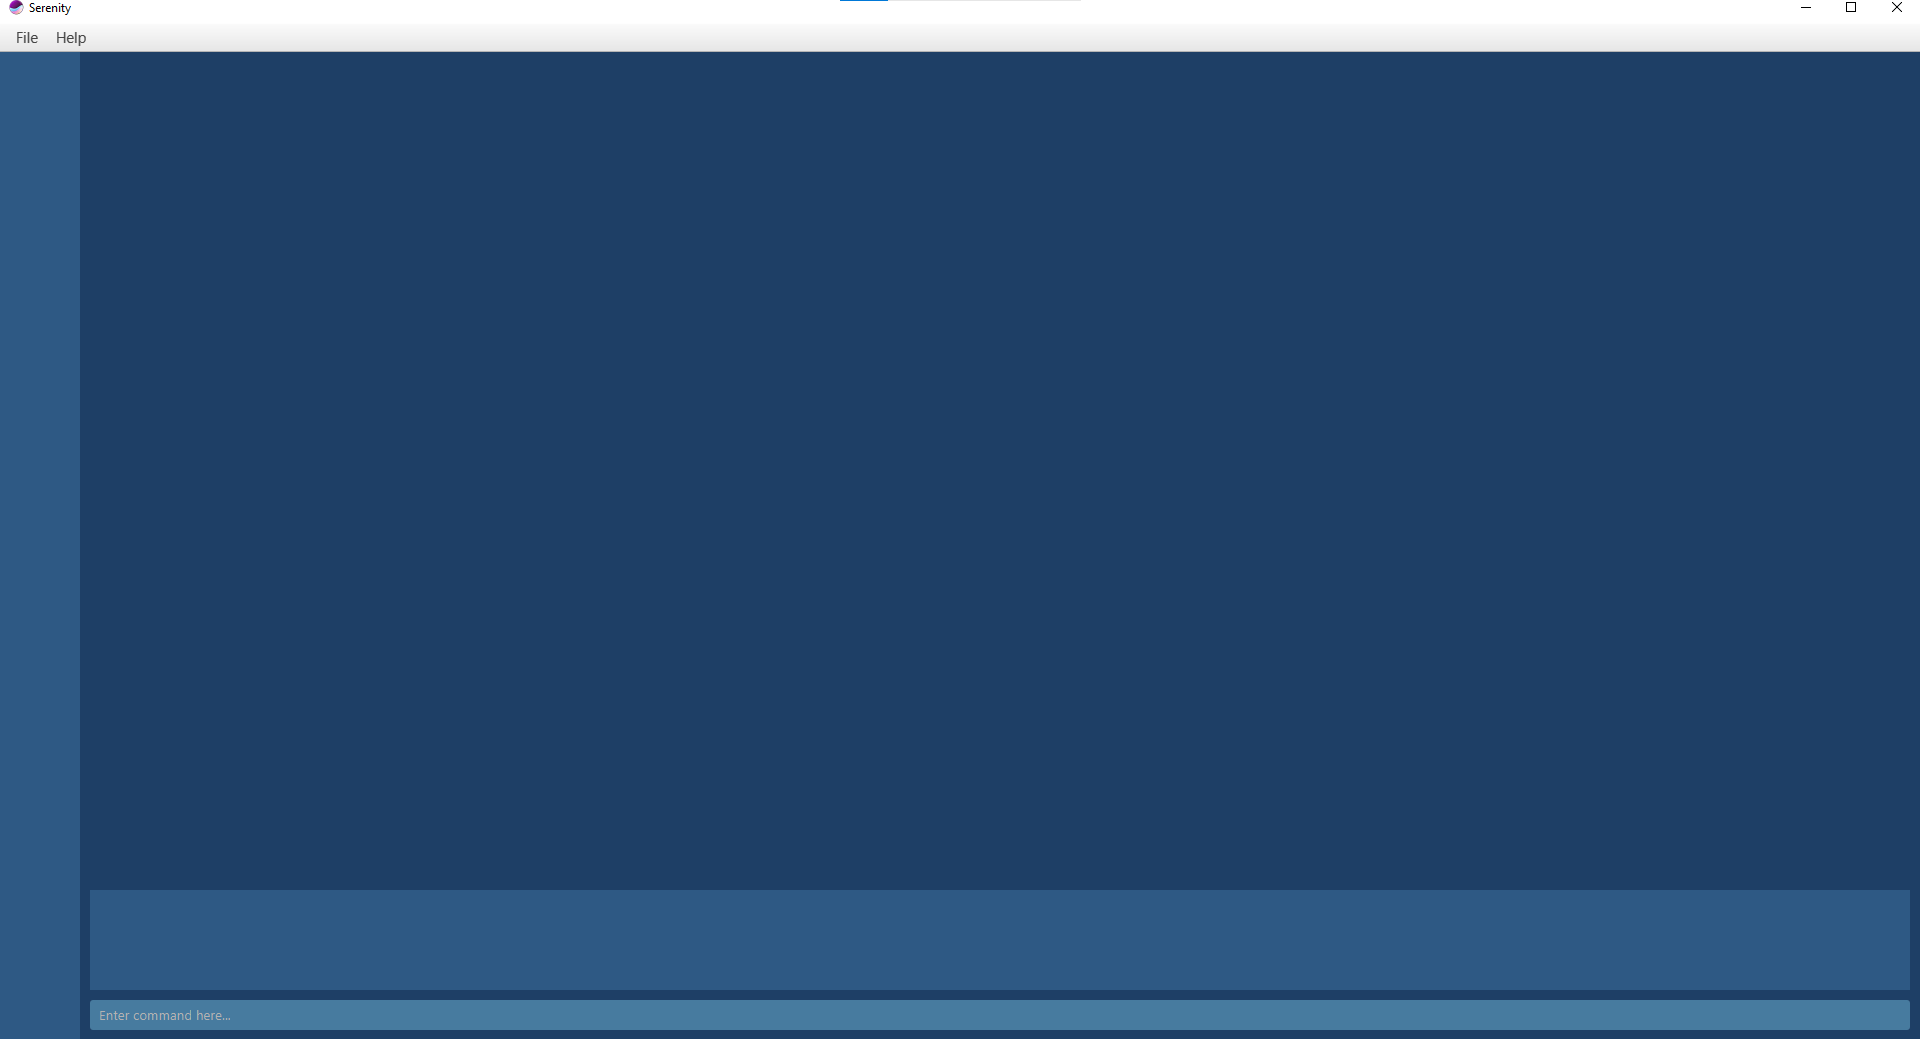
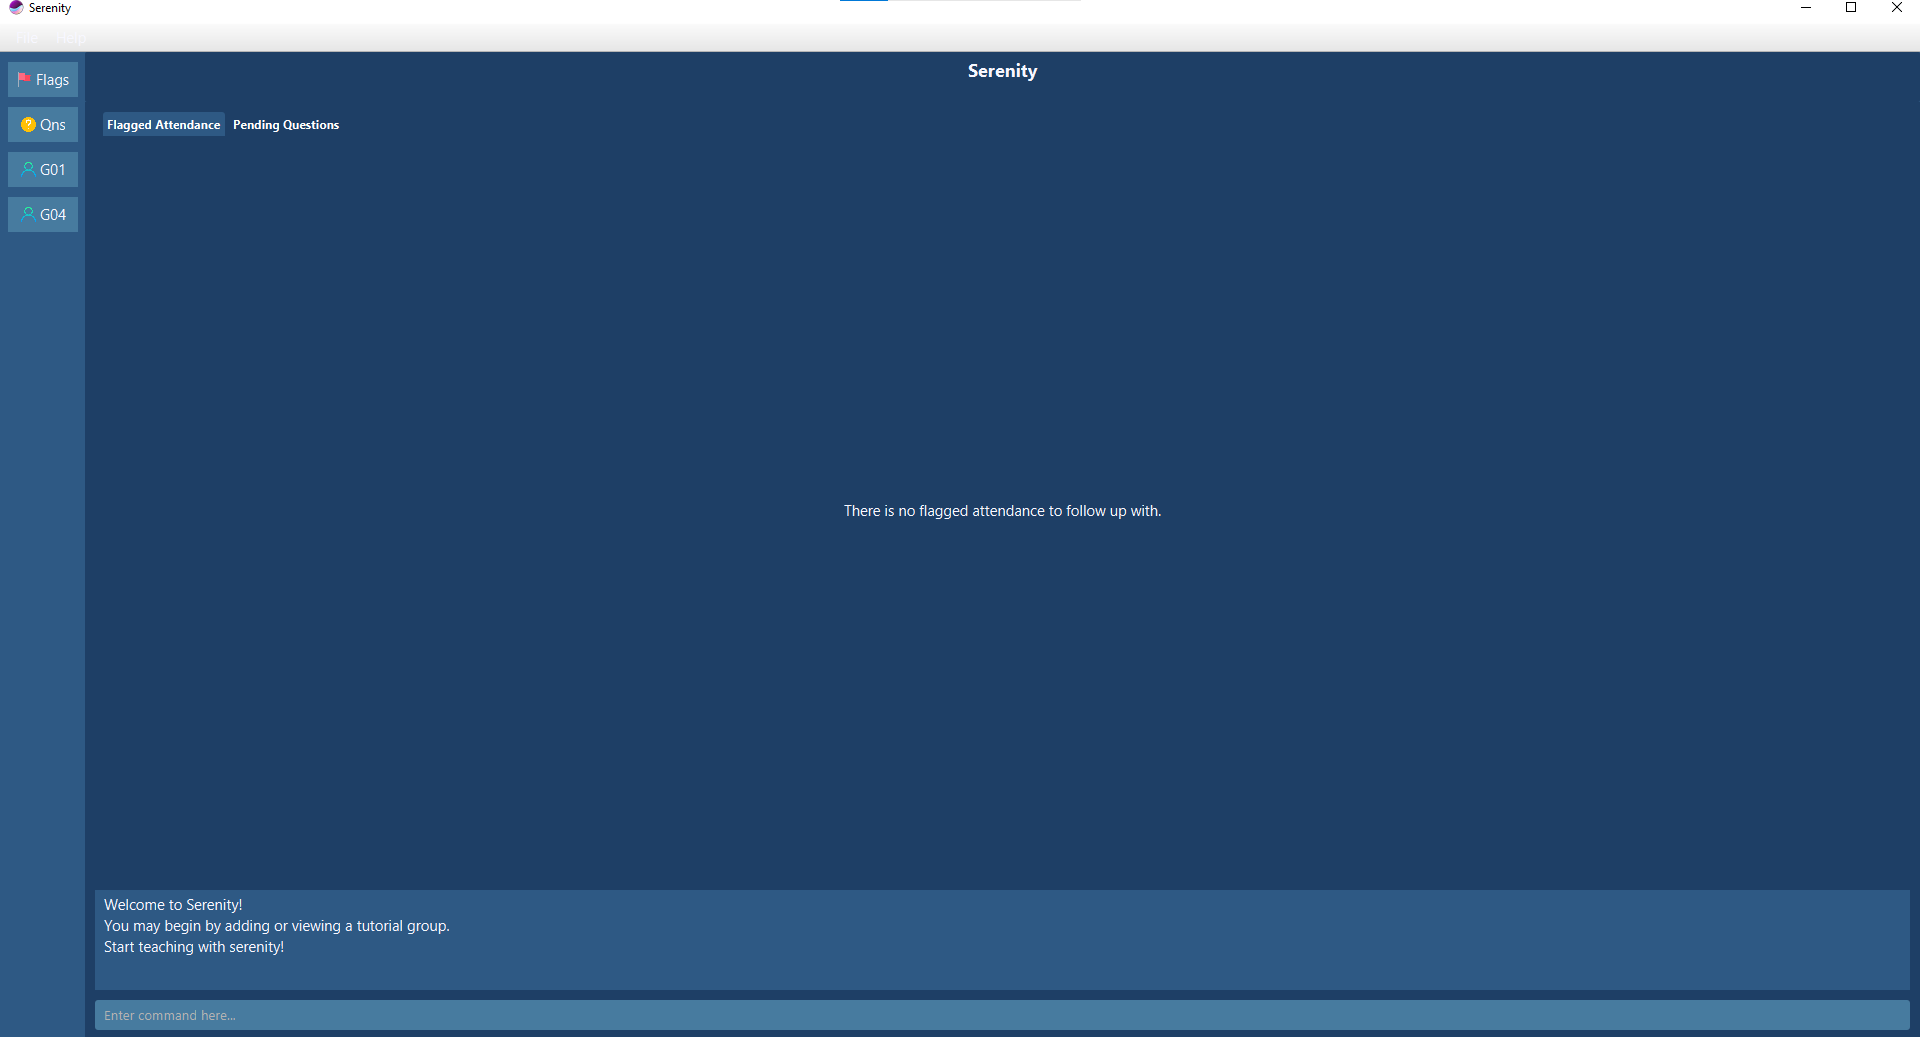
Add ui pics

Changed region(s): [[0.0312, 0.8332, 1.0, 1.0], [0.0, 0.0309, 0.1562, 0.2469], [0.5, 0.0617, 0.5312, 0.0926]]

diff --git a/docs/UserGuide.md b/docs/UserGuide.md
@@ -75,7 +75,68 @@ It is annotated with the name of the _GUI_ components.
 
 ![Ui](images/Ui_annotated.png)
 
-#### 3.2.2. General symbols and syntax
+#### 3.2.2. Layout of the _GUI_
+
+**Serenity** is divided into four main tabs:
+
+* Flagged attendance tab
+* Questions tab
+* Group tab
+* Lesson tab
+
+##### **Flagged attendance tab** 
+
+This is the main tab of the application, and is the default page when the app is started. It contains 
+the names of students whose attendance have been flagged using the `flagatt` command. Flagging a student's
+attendance serves as a reminder on the first page of the app for you to check on the student and perform
+any follow-up actions, if necessary. 
+
+<p align="center"><img src="images/flaggedatt.png" alt="Picture of flag attendance GUI"></p>
+
+<p align="center"><i>Figure 3.2.2.1 User interface showing the layout of the flagged attendance tab</i></p>
+
+> :bulb: Tip: Class has started! `Aaron Tan` is not in the zoom class yet. Flag his attendance and 
+>proceed with teaching. With the flag attendance tab, you will be reminded to check again after class.
+
+##### **Questions tab**
+
+This tab shows the questions asked across all your tutorial groups, providing a convenient place for you
+to keep track of all the questions asked by students across your tutorial groups and lessons.
+
+<p align="center"><img src="images/questionsGUI.png" alt="Picture of questions GUI"></p>
+
+<p align="center"><i>Figure 3.2.2.2 User interface showing the layout of the questions tab</i></p>
+
+##### **Group tab**
+
+This tab shows the information related to a tutorial group that you are teaching. 
+There are four sub-tabs at the top which allows you to view the number of lessons scheduled
+for this group, the list of students in the group, 
+their attendance records and participation grades respectively. Toggle between them with the 
+horizontal row of tabs at the top.
+
+<p align="center"><img src="images/viewgrpGUI.png" alt="Picture of group GUI"></p>
+
+<p align="center"><i>Figure 3.2.2.3 User interface showing the layout of the group tab</i></p>
+
+##### **Lesson tab**
+
+This tab shows the records for a specific lesson. 
+
+In this tab, you are able to:
+* Assign and change the attendance and participation grades
+* Flag a student's attendance
+* Add a question that is asked during this lesson
+* View the attendance and participation grades for this lesson
+* View the questions asked during this tutorial lesson
+
+<p align="center"><img src="images/viewlsnGUI.png" alt="Picture of lesson GUI"></p>
+
+<p align="center"><i>Figure 3.2.2.3 User interface showing the layout of the lesson tab</i></p>
+
+> :memo: This tab is accessible through the `viewlsn` command
+
+#### 3.2.3. General symbols and syntax
 
 The table below explains the general symbols and syntax used throughout the document.
 
@@ -87,7 +148,7 @@ _GUI_ | This indicates a graphical component, such as a button, layout format an
 :bulb: | This indicates a tip.
 :warning: | This indicates a warning.
 
-#### 3.2.3. Command syntax and usage
+#### 3.2.4. Command syntax and usage
 
 The table below explains some important technical terms.
 
@@ -99,7 +160,7 @@ Parameter | The word or phrase following the command word that provides further 
 Prefix | The letter that is placed at the start of each parameter to distinguish one parameter from another.
 XLSX | File format for all excel files.
 
-#### 3.2.4. Command format
+#### 3.2.5. Command format
 
 You can use commands to tell **Serenity** to perform a specific task.
 

diff --git a/docs/index.md b/docs/index.md
@@ -6,7 +6,7 @@ title: Serenity
 [![CI Status](https://github.com/AY2021S1-CS2103T-W12-4/tp/workflows/Java%20CI/badge.svg)](https://github.com/AY2021S1-CS2103T-W12-4/tp/actions)
 [![codecov](https://codecov.io/gh/AY2021S1-CS2103T-W12-4/tp/branch/master/graph/badge.svg)](https://codecov.io/gh/AY2021S1-CS2103T-W12-4/tp)
 
-![Ui](images/Ui.png)
+![Ui](images/UiWithData.png)
 
 **Serenity is a desktop application for managing your tutorial groups and lessons.** While it has a *GUI*, most of the user interactions happen using a *CLI* (Command Line Interface).
 
